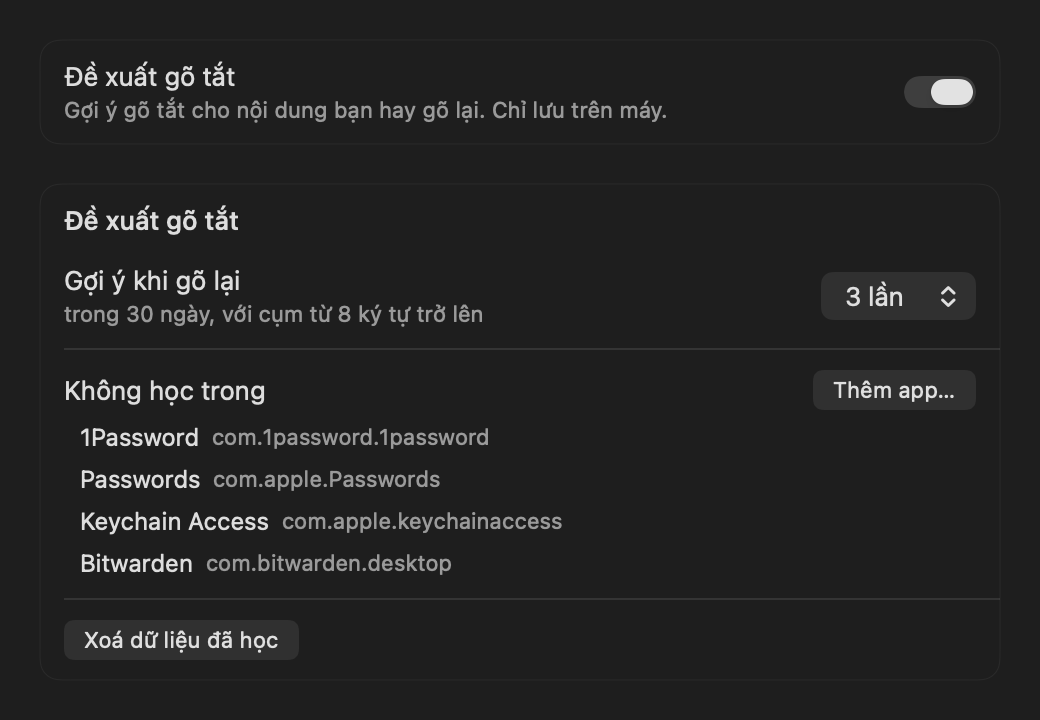
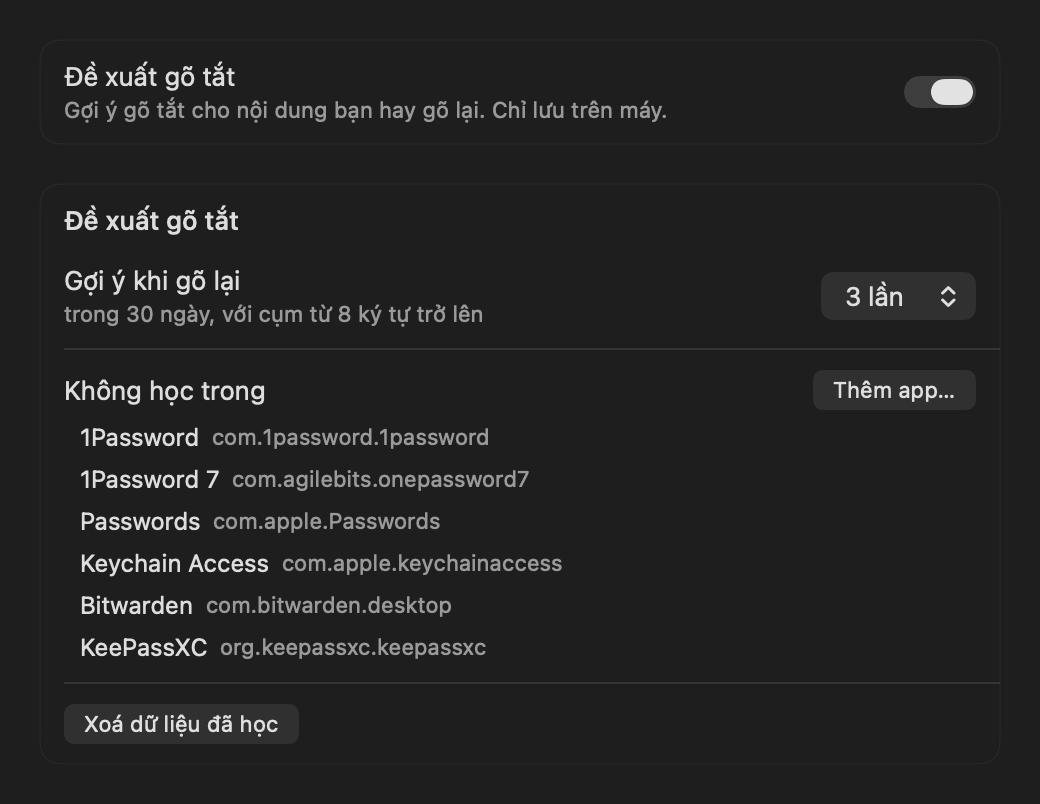
4B: final review fixes (rulings R20-R22)
- Text a gõ tắt already covers is never suggested: the model takes the
  app's replacements, and on the learner queue dismisses candidates equal
  to one or holding one of 8+ characters (expansions feed the mirror).
- R20: an app switch discards the pending phrase (engine-dispatch), so it
  is never credited to the app switched to.
- eraseAll publishes the learner's (empty) ready list last, so a queued
  observe cannot bring erased text back.
- R21: Keychain store tests skip on errSecInteractionNotAllowed or
  LEANKEYS_SKIP_KEYCHAIN_TESTS=1 (exported by sync.sh); previews keep
  their defaults in the volatile registration domain.
- R22: 1Password 7 and KeePassXC excluded by default.
- Checklist: S2 for both engines with the Gõ Nhanh sdt check, S5 Đài Loan.

diff --git a/leankeys/LeanKeysKit/Learn/ShortcutSuggestionsModel.swift b/leankeys/LeanKeysKit/Learn/ShortcutSuggestionsModel.swift
@@ -75,6 +75,9 @@ public final class ShortcutSuggestionsModel: ObservableObject {
 
     /// The app's current gõ tắt triggers. Set by the app.
     public var existingTriggers: () -> [String] = { [] }
+    /// The app's current gõ tắt replacements. An expansion reaches the mirror as typed text, so a phrase that is
+    /// (or holds) one is never suggested. Set by the app.
+    public var existingReplacements: () -> [String] = { [] }
     /// Adds a gõ tắt to the app's store (which saves it and syncs both engines); false when it was refused.
     public var addShortcut: (_ trigger: String, _ text: String) -> Bool = { _, _ in false }
     /// Phrases typed in LeanKeys itself (the Sửa field) are not learned.
@@ -94,6 +97,8 @@ public final class ShortcutSuggestionsModel: ObservableObject {
 
     /// Learner-queue state: touched only inside `onLearnerQueue`.
     private var learner: PhraseLearning?
+    /// Learner queue: the latest replacements handed over from main, normalised.
+    private var queueReplacements: [String] = []
     /// Main: ids added or dismissed here, filtered out of any `ready` list still on its way from the queue.
     private var handled: Set<String> = []
 
@@ -183,8 +188,10 @@ public final class ShortcutSuggestionsModel: ObservableObject {
     /// Hooks the router's mirror up to this model and takes the app's gõ tắt store. Main thread.
     public func start(router: EngineRouter,
                       existingTriggers: @escaping () -> [String],
+                      existingReplacements: @escaping () -> [String],
                       addShortcut: @escaping (String, String) -> Bool) {
         self.existingTriggers = existingTriggers
+        self.existingReplacements = existingReplacements
         self.addShortcut = addShortcut
         contextReader = LearnContextReader.current
         router.mirror.onPhrase = { [weak self] phrase in self?.phraseCommitted(phrase) }
@@ -199,8 +206,10 @@ public final class ShortcutSuggestionsModel: ObservableObject {
     /// Main thread. Hands the phrase to the learner queue unless learning is off or it was typed in LeanKeys.
     public func observe(_ phrase: CommittedPhrase, context: LearnContext) {
         guard enabled, context.bundleID == nil || context.bundleID != ownBundleID else { return }
+        let replacements = existingReplacements()
         onLearnerQueue { [self] in
             guard let learner, learner.enabled else { return }
+            queueReplacements = Self.normalized(replacements)
             learner.observe(phrase, context: context)
             publishReady(learner)
         }
@@ -215,10 +224,31 @@ public final class ShortcutSuggestionsModel: ObservableObject {
         return made
     }
 
-    /// Learner queue: reads `ready` and hands it to main.
+    /// Learner queue: reads `ready`, dismisses what an existing gõ tắt already covers, and hands the rest to main.
     private func publishReady(_ learner: PhraseLearning) {
-        let ready = learner.ready
+        var ready = learner.ready
+        let covered = ready.filter { Self.isCovered($0.text, byNormalized: queueReplacements) }
+        if !covered.isEmpty {
+            covered.forEach(learner.dismiss)
+            let ids = Set(covered.map(\.id))
+            ready.removeAll { ids.contains($0.id) }
+        }
         onMain { [weak self] in self?.publish(ready) }
+    }
+
+    /// Replacements to compare with, as `PhraseDetector.normalizedKey` makes them; empty ones dropped.
+    static func normalized(_ replacements: [String]) -> [String] {
+        replacements.map(PhraseDetector.normalizedKey).filter { !$0.isEmpty }
+    }
+
+    /// Minimum length of a replacement that, found inside a phrase, makes the phrase covered.
+    static let containedReplacementMinLength = 8
+
+    /// `text` is a gõ tắt's replacement, or holds one of 8 characters or more.
+    static func isCovered(_ text: String, byNormalized replacements: [String]) -> Bool {
+        guard !replacements.isEmpty else { return false }
+        let key = PhraseDetector.normalizedKey(text)
+        return replacements.contains { $0 == key || ($0.count >= containedReplacementMinLength && key.contains($0)) }
     }
 
     /// Main thread.
@@ -239,7 +269,8 @@ public final class ShortcutSuggestionsModel: ObservableObject {
     /// called when the list opens (the engine replay resets the typing context, as the click that opened it did).
     public func prepareSuggestions() {
         var taken = Set(existingTriggers().map { $0.lowercased() })
-        rows = candidates.map { candidate in
+        let replacements = Self.normalized(existingReplacements())
+        rows = candidates.filter { !Self.isCovered($0.text, byNormalized: replacements) }.map { candidate in
             let trigger = suggest(candidate, taken)
             taken.insert(trigger.lowercased())
             return SuggestionRow(candidate: candidate, trigger: trigger)
@@ -314,6 +345,8 @@ public final class ShortcutSuggestionsModel: ObservableObject {
         onLearnerQueue { [self] in
             if let learner {
                 learner.eraseAll()
+                // An observe queued before the erase may have published its text: the last word is the empty list.
+                publishReady(learner)
             } else {
                 eraseStore()
             }

diff --git a/leankeys/Tests/LeanKeysKitTests/ShortcutSuggestionsModelTests.swift b/leankeys/Tests/LeanKeysKitTests/ShortcutSuggestionsModelTests.swift
@@ -31,6 +31,7 @@ final class ShortcutSuggestionsModelTests: XCTestCase {
         store = MemoryStore()
         added = []
         existing = []
+        replacements = []
         learnersMade = 0
     }
 
@@ -39,7 +40,9 @@ final class ShortcutSuggestionsModelTests: XCTestCase {
         super.tearDown()
     }
 
-    private func makeModel() -> ShortcutSuggestionsModel {
+    private var replacements: [String] = []
+
+    private func makeModel(onLearnerQueue: @escaping (@escaping () -> Void) -> Void = { $0() }) -> ShortcutSuggestionsModel {
         let model = ShortcutSuggestionsModel(
             defaults: defaults,
             makeLearner: { [unowned self] threshold in
@@ -47,11 +50,12 @@ final class ShortcutSuggestionsModelTests: XCTestCase {
                 return PhraseLearner(store: store, threshold: threshold)
             },
             eraseStore: { [unowned self] in try? store.erase() },
-            onLearnerQueue: { $0() },
+            onLearnerQueue: onLearnerQueue,
             onMain: { $0() },
             suggest: { candidate, taken in Abbreviation.suggest(for: candidate, existing: taken) }
         )
         model.existingTriggers = { [unowned self] in existing }
+        model.existingReplacements = { [unowned self] in replacements }
         model.addShortcut = { [unowned self] trigger, text in
             added.append((trigger, text))
             existing.append(trigger)
@@ -223,6 +227,8 @@ final class ShortcutSuggestionsModelTests: XCTestCase {
         model.addExcludedApp("com.example.secret")
         XCTAssertTrue(model.excludedBundleIDs.contains("com.example.secret"))
         XCTAssertTrue(model.excludedBundleIDs.isSuperset(of: Exclusions.defaultBundleIDs))
+        XCTAssertTrue(Exclusions.defaultBundleIDs.isSuperset(of: ["com.agilebits.onepassword7", "org.keepassxc.keepassxc"]),
+                      "ruling R22")
         let secret = LearnContext(bundleID: "com.example.secret", secureInput: false, secureField: false, now: Date())
         for _ in 0..<3 { model.observe(CommittedPhrase(text: "0912 345 678"), context: secret) }
         XCTAssertEqual(model.suggestionCount, 0)
@@ -251,6 +257,53 @@ final class ShortcutSuggestionsModelTests: XCTestCase {
         model.dismiss(row)
         model.publish(stale)
         XCTAssertEqual(model.suggestionCount, 0)
+    }
+
+    /// An expansion reaches the mirror as typed text: `sdt` + Return three times must not suggest the number.
+    func testExpandedShortcutIsNotSuggested() {
+        existing = ["sdt"]
+        replacements = ["0912 345 678"]
+        let model = enabledModel()
+        type("0912  345 678", into: model)
+        XCTAssertEqual(model.suggestionCount, 0)
+        // Dismissed in the learner: removing the gõ tắt later does not bring it back.
+        replacements = []
+        type("0912 345 678", into: model)
+        XCTAssertEqual(model.suggestionCount, 0)
+    }
+
+    func testPhraseHoldingLongReplacementIsNotSuggested() {
+        replacements = ["Số 1 đường Mẫu", "ok"]
+        let model = enabledModel()
+        type("Gửi về số 1 đường mẫu giúp em", into: model)
+        XCTAssertEqual(model.suggestionCount, 0, "a phrase holding an 8+ character replacement")
+        type("ok anh nhé, mai gặp", into: model)
+        XCTAssertEqual(model.suggestionCount, 1, "a replacement under 8 characters inside a phrase is fine")
+    }
+
+    func testShortcutAddedLaterHidesRowWhenListOpens() {
+        let model = enabledModel()
+        type("0912 345 678", into: model)
+        XCTAssertEqual(model.suggestionCount, 1)
+        replacements = ["0912 345 678"]
+        model.prepareSuggestions()
+        XCTAssertTrue(model.rows.isEmpty)
+    }
+
+    /// An observe queued before an erase publishes its text when it runs; the erase must publish last.
+    func testEraseIsTheLastPublish() {
+        var pending: [() -> Void] = []
+        let model = makeModel(onLearnerQueue: { pending.append($0) })
+        model.setEnabled(true)
+        model.confirmConsent()
+        func drain() { while !pending.isEmpty { pending.removeFirst()() } }
+        drain()
+        type("0912 345 678", into: model)
+        model.eraseAll()
+        XCTAssertEqual(model.suggestionCount, 0)
+        drain()
+        XCTAssertEqual(model.suggestionCount, 0, "queued observes ran before the erase; the erase published last")
+        XCTAssertEqual(store.erased, 1)
     }
 
     func testSuggestionLine() {

diff --git a/leankeys/Tests/LeanKeysKitTests/PhraseLearnerTests.swift b/leankeys/Tests/LeanKeysKitTests/PhraseLearnerTests.swift
@@ -300,6 +300,20 @@ final class KeychainEncryptedFileStoreTests: XCTestCase {
         try? FileManager.default.removeItem(at: dir)
     }
 
+    /// Ruling R21: the launchd sync job runs without an unlocked GUI session, where the login keychain answers
+    /// errSecInteractionNotAllowed. It sets LEANKEYS_SKIP_KEYCHAIN_TESTS=1; a locked keychain skips too.
+    private func requireKeychain() throws {
+        if ProcessInfo.processInfo.environment["LEANKEYS_SKIP_KEYCHAIN_TESTS"] == "1" {
+            throw XCTSkip("LEANKEYS_SKIP_KEYCHAIN_TESTS=1")
+        }
+        let probe: [String: Any] = [kSecClass as String: kSecClassGenericPassword, kSecAttrService as String: service!,
+                                    kSecAttrAccount as String: "probe", kSecValueData as String: Data([0])]
+        let status = SecItemAdd(probe as CFDictionary, nil)
+        if status == errSecInteractionNotAllowed { throw XCTSkip("keychain locked (errSecInteractionNotAllowed)") }
+        SecItemDelete([kSecClass as String: kSecClassGenericPassword, kSecAttrService as String: service!,
+                       kSecAttrAccount as String: "probe"] as CFDictionary)
+    }
+
     private func items() -> Int {
         let query: [String: Any] = [kSecClass as String: kSecClassGenericPassword, kSecAttrService as String: service!,
                                     kSecMatchLimit as String: kSecMatchLimitAll, kSecReturnAttributes as String: true]
@@ -309,6 +323,7 @@ final class KeychainEncryptedFileStoreTests: XCTestCase {
     }
 
     func testRoundTripThroughKeychain() throws {
+        try requireKeychain()
         let url = dir.appendingPathComponent("LeanKeys/learn.bin")
         let store = KeychainEncryptedFileStore(url: url, keychainService: service)
         XCTAssertNil(try store.load())
@@ -341,6 +356,7 @@ final class KeychainEncryptedFileStoreTests: XCTestCase {
     /// Off by default must mean no trace: a learner that never counts anything creates no Keychain item, and erasing
     /// leaves none behind.
     func testDisabledLearnerLeavesNoKeychainItem() throws {
+        try requireKeychain()
         let url = dir.appendingPathComponent("learn.bin")
         let idle = PhraseLearner(store: KeychainEncryptedFileStore(url: url, keychainService: service))
         idle.observe(CommittedPhrase(text: "Cảm ơn anh nhiều nhé"),
@@ -366,6 +382,7 @@ final class KeychainEncryptedFileStoreTests: XCTestCase {
     }
 
     func testUnreadableFileLoadsAsNothing() throws {
+        try requireKeychain()
         let url = dir.appendingPathComponent("learn.bin")
         try FileManager.default.createDirectory(at: dir, withIntermediateDirectories: true)
         try Data("not a sealed box".utf8).write(to: url)

diff --git a/leankeys/LeanKeysKit/Learn/TextMirror.swift b/leankeys/LeanKeysKit/Learn/TextMirror.swift
@@ -8,7 +8,7 @@ public struct CommittedWord: Equatable {
 
 /// A phrase the user just finished, trimmed and without its terminator. It ends at `. ! ?` followed by Space,
 /// Return/Enter or a cursor move; at Return/Enter; or at a cursor move (`reset`: click, arrows, Home/End,
-/// Page Up/Down, Esc, Tab, app switch). Bypass and Secure Input (`discard`) drop it instead.
+/// Page Up/Down, Esc, Tab). Bypass, Secure Input and app switch (`discard`) drop it instead.
 public struct CommittedPhrase: Equatable {
     public let text: String
 }
@@ -98,15 +98,16 @@ public final class TextMirror {
         }
     }
 
-    /// The cursor moved (click, arrows, Home/End, Page Up/Down, Esc, Tab, app switch): the pending phrase, with
+    /// The cursor moved inside the app (click, arrows, Home/End, Page Up/Down, Esc, Tab): the pending phrase, with
     /// the word being typed, is finished and emitted. No `onWord`: no break key was typed.
     public func reset() {
         emitPhrase()
         discard()
     }
 
-    /// Bypass and Secure Input (Cmd/Ctrl chords, Option+Backspace, restore shortcut, unknown keys): forget the word
-    /// and the phrase, emit nothing.
+    /// Bypass, Secure Input and app switch (Cmd/Ctrl chords, Option+Backspace, restore shortcut, unknown keys, the
+    /// frontmost app changing): forget the word and the phrase, emit nothing. An app switch discards (ruling R20):
+    /// by the time it is seen the phrase would be credited to the new app, past its exclusion and secure-field checks.
     public func discard() {
         buffer.removeAll()
         wordStart = 0

diff --git a/leankeys/LeanKeysKit/Engine/EngineRouter.swift b/leankeys/LeanKeysKit/Engine/EngineRouter.swift
@@ -170,7 +170,7 @@ public final class EngineRouter {
     }
 
     /// Drops the mirror's pending word and phrase without emitting them: Cmd/Ctrl chords, Option+Backspace, the
-    /// restore shortcut, Secure Input, other input sources.
+    /// restore shortcut, Secure Input, other input sources, an app switch (ruling R20).
     public func discardPending() {
         mirror.discard()
     }
@@ -211,8 +211,8 @@ public final class EngineRouter {
     }
 
     /// Every place the macOS app drops the word goes through `RustBridge.clearBuffer*` to here, so the mirror
-    /// resets with it and emits the pending phrase (a click, an app switch or a modified arrow moves the cursor).
-    /// Bypass and Secure Input sites call `discardPending()` first, which leaves nothing to emit.
+    /// resets with it and emits the pending phrase (a click, Tab or a modified arrow moves the cursor in the app).
+    /// Bypass, Secure Input and app-switch sites call `discardPending()` first, which leaves nothing to emit.
     public func clear() {
         vikey?.resetContext()
         mirror.reset()

diff --git a/leankeys/LeanKeysKit/UI/ShortcutSuggestionsView.swift b/leankeys/LeanKeysKit/UI/ShortcutSuggestionsView.swift
@@ -158,11 +158,11 @@ extension ShortcutSuggestionsModel {
 
     /// A model that learns nothing and touches no store, showing `candidates` (with triggers) as if learning were on.
     static func preview(candidates: [Candidate] = [], enabled: Bool = true) -> ShortcutSuggestionsModel {
-        let suite = "LeanKeys.preview"
+        // Values go in the registration domain only, which is volatile: nothing reaches ~/Library/Preferences.
+        let suite = "LeanKeys.preview.\(UUID().uuidString)"
         let defaults = UserDefaults(suiteName: suite)!
-        defaults.removePersistentDomain(forName: suite)
-        defaults.set(enabled, forKey: enabledKey)
-        defaults.set(true, forKey: consentKey)
+        defaults.register(defaults: [enabledKey: enabled, consentKey: true])
+        defer { defaults.removePersistentDomain(forName: suite) }
         let model = ShortcutSuggestionsModel(
             defaults: defaults,
             makeLearner: { _ in PreviewLearner() },

diff --git a/leankeys/Tests/LeanKeysKitTests/TextMirrorTests.swift b/leankeys/Tests/LeanKeysKitTests/TextMirrorTests.swift
@@ -120,7 +120,7 @@ final class TextMirrorTests: XCTestCase {
         XCTAssertEqual(rec.words.last?.breakChar, "\t")
         XCTAssertEqual(rec.phrases.last, "Nam Dia")
 
-        // A click or app switch reaches the router as clear() (RustBridge.clearBuffer*), terminator pending or not.
+        // A click reaches the router as clear() (RustBridge.clearBuffer*), terminator pending or not.
         typeKeys(dia, router)
         router.clear()
         XCTAssertEqual(rec.phrases.last, "Dia")

diff --git a/leankeys/LeanKeysKit/Learn/Exclusions.swift b/leankeys/LeanKeysKit/Learn/Exclusions.swift
@@ -5,9 +5,11 @@ public enum Exclusions {
     /// Apps never learned from, by default.
     public static let defaultBundleIDs: Set<String> = [
         "com.1password.1password",
+        "com.agilebits.onepassword7",
         "com.bitwarden.desktop",
         "com.apple.keychainaccess",
         "com.apple.Passwords",
+        "org.keepassxc.keepassxc",
     ]
 
     /// A number as typed: digit groups joined by single spaces, dots or dashes ("4111 1111 1111 1111",

diff --git a/platforms/macos/MenuBar.swift b/platforms/macos/MenuBar.swift
@@ -160,6 +160,7 @@ class MenuBarController: NSObject, NSWindowDelegate {
         ShortcutSuggestionsModel.shared.start(
             router: .shared,
             existingTriggers: { AppState.shared.shortcuts.map(\.key) },
+            existingReplacements: { AppState.shared.shortcuts.map(\.value) },
             addShortcut: { AppState.shared.addLearnedShortcut(trigger: $0, text: $1) }
         )
         // LEANKEYS-HOOK-END

diff --git a/platforms/macos/RustBridge.swift b/platforms/macos/RustBridge.swift
@@ -2382,6 +2382,7 @@ class PerAppModeManager {
         currentBundleId = bundleId
 
         Log.refresh() // Re-check debug log file existence on app switch
+        EngineRouter.shared.discardPending() // LEANKEYS-HOOK: engine-dispatch (R20: a phrase is never credited to the app switched to)
         RustBridge.clearBuffer()
         clearDetectionCache() // Clear injection method cache on app switch
 

diff --git a/leankeys/LeanKeysKit/UI/LearnSettingsSection.swift b/leankeys/LeanKeysKit/UI/LearnSettingsSection.swift
@@ -168,6 +168,8 @@ public struct LearnSettingsSection: View {
 
     private static let knownNames = [
         "com.1password.1password": "1Password",
+        "com.agilebits.onepassword7": "1Password 7",
+        "org.keepassxc.keepassxc": "KeePassXC",
         "com.bitwarden.desktop": "Bitwarden",
         "com.apple.keychainaccess": "Keychain Access",
         "com.apple.Passwords": "Passwords",

diff --git a/sync/manual-checklist.md b/sync/manual-checklist.md
@@ -36,8 +36,9 @@ Câu thử: `Tieengs Vieejt truowfng hojc` phải ra "Tiếng Việt trường h
 | A3 | Cập nhật self-signed | Cập nhật từ bản self-signed sang bản self-signed khác: gõ vẫn được, không phải cấp quyền lại. | — | [ ] |
 | A4 | Từ ad-hoc lên self-signed | Máy đang chạy bản ad-hoc đã cấp quyền. Cập nhật lên bản self-signed đầu tiên: LeanKeys tự reset mục của chính nó trong Trợ năng, chỉ cần gạt một công tắc là gõ được. | — | [ ] |
 | S1 | Đề xuất gõ tắt | Cài đặt → Chung → bật "Đề xuất gõ tắt": màn giải thích hiện ra; bấm Huỷ thì công tắc vẫn tắt, bấm Bật thì công tắc bật. | — | [ ] |
-| S2 | Đề xuất gõ tắt | Gõ cùng một số điện thoại thử (`0900 000 000`) rồi Return, 3 lần trong Notes: ô nổi hiện "Có 1 gợi ý gõ tắt". Bấm vào, bấm Thêm; gõ `sdt` + cách thì ra đúng số đó. | [ ] | [ ] |
+| S2 | Đề xuất gõ tắt | Làm với từng engine: gõ cùng một số điện thoại thử (`0900 000 000`) rồi Return, 3 lần trong Notes: ô nổi hiện "Có 1 gợi ý gõ tắt". Bấm vào, bấm Thêm; gõ `sdt` + cách thì ra đúng số đó, đúng một lần (với Gõ Nhanh: Gõ Nhanh tự bung, không bung đôi). Gõ `sdt` + Return thêm 3 lần: không có gợi ý mới. | [ ] | [ ] |
 | S3 | Đề xuất gõ tắt | Gõ cùng một chuỗi 3 lần trong ô mật khẩu của Safari (Return sau mỗi lần): không có gợi ý nào. | — | [ ] |
 | S4 | Đề xuất gõ tắt | Cài đặt → Nâng cao → "Xoá dữ liệu đã học" → Xoá: ô nổi không còn dòng gợi ý, danh sách gợi ý trống. | — | [ ] |
+| S5 | Chữ hoa với Shift | Gõ `DDaif Loan` trong Notes, giữ Shift (không bật Caps Lock) khi gõ `DD` và `L`: ra "Đài Loan", không ra "đài Loan". | [ ] | [ ] |
 
-Chỉ gõ `yes` khi cả 44 ô đều đạt.
+Chỉ gõ `yes` khi cả 46 ô đều đạt.
